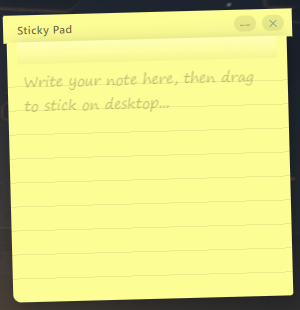
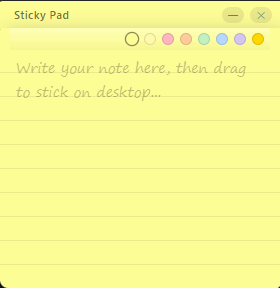
添加任务列表支持和双击编辑功能，更新样式和文档

Changed region(s): [[0.0, 0.0, 1.0, 1.0], [0.0571, 0.2188, 0.8857, 0.375]]

diff --git a/src/components/StickyNote.tsx b/src/components/StickyNote.tsx
@@ -1,4 +1,4 @@
-import { useState, useEffect, useCallback } from "react";
+import { useState, useEffect, useCallback, useRef } from "react";
 import { getCurrentWindow } from "@tauri-apps/api/window";
 import { invoke } from "@tauri-apps/api/core";
 import type { StickyNote as StickyNoteType } from "../types";
@@ -46,7 +46,9 @@ function renderContent(
 function StickyNote({ noteId }: StickyNoteProps) {
   const [note, setNote] = useState<StickyNoteType | null>(null);
   const [pinned, setPinned] = useState(false);
+  const [editing, setEditing] = useState(false);
   const appWindow = getCurrentWindow();
+  const textareaRef = useRef<HTMLTextAreaElement>(null);
 
   useEffect(() => {
     const data = localStorage.getItem(`sticky-${noteId}`);
@@ -56,6 +58,16 @@ function StickyNote({ noteId }: StickyNoteProps) {
       if (parsed.pinned) setPinned(true);
     }
   }, [noteId]);
+
+  useEffect(() => {
+    if (editing && textareaRef.current) {
+      textareaRef.current.focus();
+      textareaRef.current.setSelectionRange(
+        textareaRef.current.value.length,
+        textareaRef.current.value.length
+      );
+    }
+  }, [editing]);
 
   const toggleTask = useCallback((lineIdx: number) => {
     setNote((prev) => {
@@ -76,6 +88,8 @@ function StickyNote({ noteId }: StickyNoteProps) {
       if (pinned) return;
       if ((e.target as HTMLElement).closest(".sticky-controls button")) return;
       if ((e.target as HTMLElement).closest(".task-cb")) return;
+      // Only drag from adhesive strip, leaving content free for double-click edit
+      if (!(e.target as HTMLElement).closest(".adhesive-strip")) return;
       try {
         await appWindow.startDragging();
       } catch {
@@ -109,6 +123,27 @@ function StickyNote({ noteId }: StickyNoteProps) {
     appWindow.close();
   };
 
+  const handleDoubleClick = useCallback(() => {
+    if (pinned) return;
+    setEditing(true);
+  }, [pinned]);
+
+  const finishEditing = useCallback(() => {
+    setEditing(false);
+    // Save to localStorage (content already in note state)
+    setNote((prev) => {
+      if (!prev) return prev;
+      localStorage.setItem(`sticky-${noteId}`, JSON.stringify(prev));
+      return prev;
+    });
+  }, [noteId]);
+
+  const handleEditKeyDown = useCallback((e: React.KeyboardEvent) => {
+    if (e.key === "Escape") {
+      (e.target as HTMLTextAreaElement).blur();
+    }
+  }, []);
+
   useEffect(() => {
     let unlisten: (() => void) | undefined;
     (async () => {
@@ -122,6 +157,9 @@ function StickyNote({ noteId }: StickyNoteProps) {
   }, [noteId, appWindow]);
 
   if (!note) return null;
+
+  const fs = note.fontSize || 14;
+  const lh = fs + 10;
 
   return (
     <div className="sticky-note-window">
@@ -159,15 +197,31 @@ function StickyNote({ noteId }: StickyNoteProps) {
           </div>
         </div>
 
-        <div
-          className="note-content-readonly"
-          style={{
-            fontSize: note.fontSize || 14,
-            lineHeight: `${(note.fontSize || 14) + 10}px`,
-          }}
-        >
-          {renderContent(note.content, note.fontSize || 14, toggleTask)}
-        </div>
+        {editing ? (
+          <textarea
+            ref={textareaRef}
+            className="note-content-edit"
+            value={note.content}
+            onChange={(e) => {
+              setNote((prev) => {
+                if (!prev) return prev;
+                return { ...prev, content: e.target.value };
+              });
+            }}
+            onBlur={finishEditing}
+            onKeyDown={handleEditKeyDown}
+            onPointerDown={(e) => e.stopPropagation()}
+            style={{ fontSize: fs, lineHeight: `${lh}px` }}
+          />
+        ) : (
+          <div
+            className="note-content-readonly"
+            style={{ fontSize: fs, lineHeight: `${lh}px` }}
+            onDoubleClick={handleDoubleClick}
+          >
+            {renderContent(note.content, fs, toggleTask)}
+          </div>
+        )}
       </div>
     </div>
   );

diff --git a/src/App.css b/src/App.css
@@ -41,7 +41,7 @@ body,
   font-family: "Segoe UI", sans-serif;
   font-size: 11px;
   letter-spacing: 0.5px;
-  border-radius: 2px 0 0 0;
+  border-radius: 4px 4px 0 0;
   margin-bottom: -1px;
 }
 
@@ -267,6 +267,28 @@ body,
 .sticky-controls .pin-btn.pinned {
   background: rgba(0, 0, 0, 0.2);
   color: #222;
+}
+
+/* ── Edit textarea (sticky note edit mode) ── */
+
+.note-content-edit {
+  flex: 1;
+  padding: 6px 16px 16px;
+  font-family: "Segoe Print", "Comic Sans MS", "MV Boli", cursive;
+  font-size: 14px;
+  line-height: 24px;
+  color: #333;
+  border: none;
+  outline: none;
+  resize: none;
+  background: repeating-linear-gradient(
+    0deg,
+    transparent,
+    transparent 23px,
+    rgba(0, 0, 0, 0.07) 23px,
+    rgba(0, 0, 0, 0.07) 24px
+  );
+  overflow-y: auto;
 }
 
 /* ── Task list (hand-drawn style) ── */

diff --git a/README.md b/README.md
@@ -15,13 +15,16 @@ Write notes on a pad, tear them off, and they stick to your desktop — just lik
 ## Features
 
 - **Tear-off flow** — write on the main pad, drag out to create a posted sticky on the desktop
-- **Immutable stickies** — once posted, content is read-only; only deletable
+- **Task list support** — `- [ ]` / `-【】` syntax rendered as hand-drawn checkboxes with toggle
+- **Double-click to edit** — double-click a posted sticky to modify its content, blur to save
 - **Always on bottom** — sticky windows sit beneath all other windows, pinned to the desktop
-- **Pin to lock** — pin a sticky to fix it in place and prevent accidental moves
+- **Pin to lock** — pin a sticky to fix it in place, prevent accidental moves and edits
 - **Transparent windows** — only the note card is visible, creating a natural desk feel
 - **System tray** — left-click to show/hide, right-click menu for Show/Hide and Quit
-- **Persistence** — posted stickies survive restarts; window positions are restored
-- **Font scaling** — Ctrl + scroll in the editor to adjust text size
+- **Single instance** — launching again focuses the existing window
+- **Persistence** — posted stickies survive restarts; window positions and sizes are restored
+- **Font scaling** — Ctrl + scroll in the editor to adjust text size (10–24px)
+- **DPI aware** — properly handles display scaling (100%–200%)
 
 ## Prerequisites
 
@@ -47,12 +50,15 @@ The installer will be in `src-tauri/target/release/bundle/`.
 ## Usage
 
 | Action | How |
-|--------|-----|
+|--------|------|
 | Write a note | Type in the textarea on the main pad |
 | Change color | Click a color dot on the adhesive strip |
-| Post to desktop | Click the note card and drag |
-| Move a sticky | Drag the sticky window (when unpinned) |
+| Post to desktop | Click the note card and drag out |
+| Edit a posted sticky | Double-click the content area |
+| Move a sticky | Drag the adhesive strip (when unpinned) |
 | Pin / Unpin | Hover over sticky, click 📌 |
+| Complete a task | Click the checkbox on a task line |
+| Create a task | Type `- [ ] task` or `-【】task` |
 | Delete a sticky | Hover over sticky, click ✕ |
 | Adjust font size | Ctrl + scroll while editing |
 | Hide to tray | Click ✕ on the note header |
@@ -65,7 +71,7 @@ The installer will be in `src-tauri/target/release/bundle/`.
 | Framework | Tauri 2 |
 | Frontend | React 19 + TypeScript + Vite |
 | Styling | Plain CSS |
-| Plugins | `window-state`, `opener` |
+| Plugins | `window-state`, `opener`, `single-instance` |
 
 ## Project Structure
 